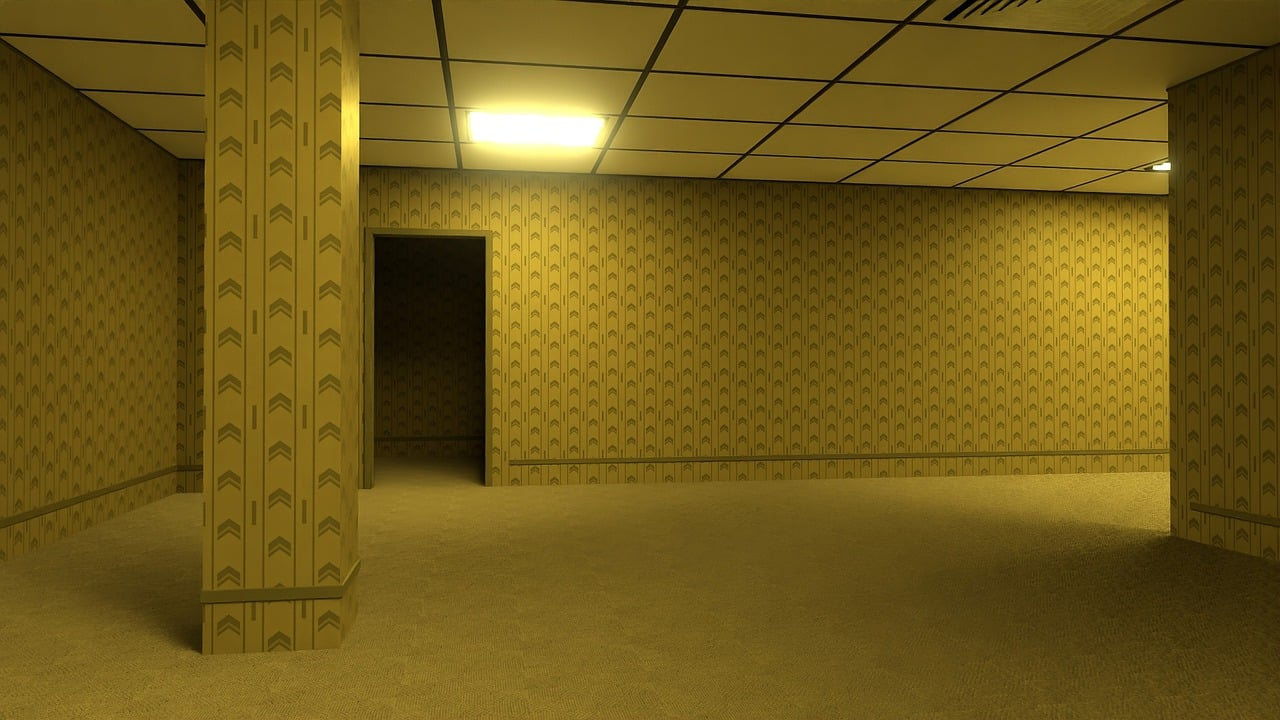
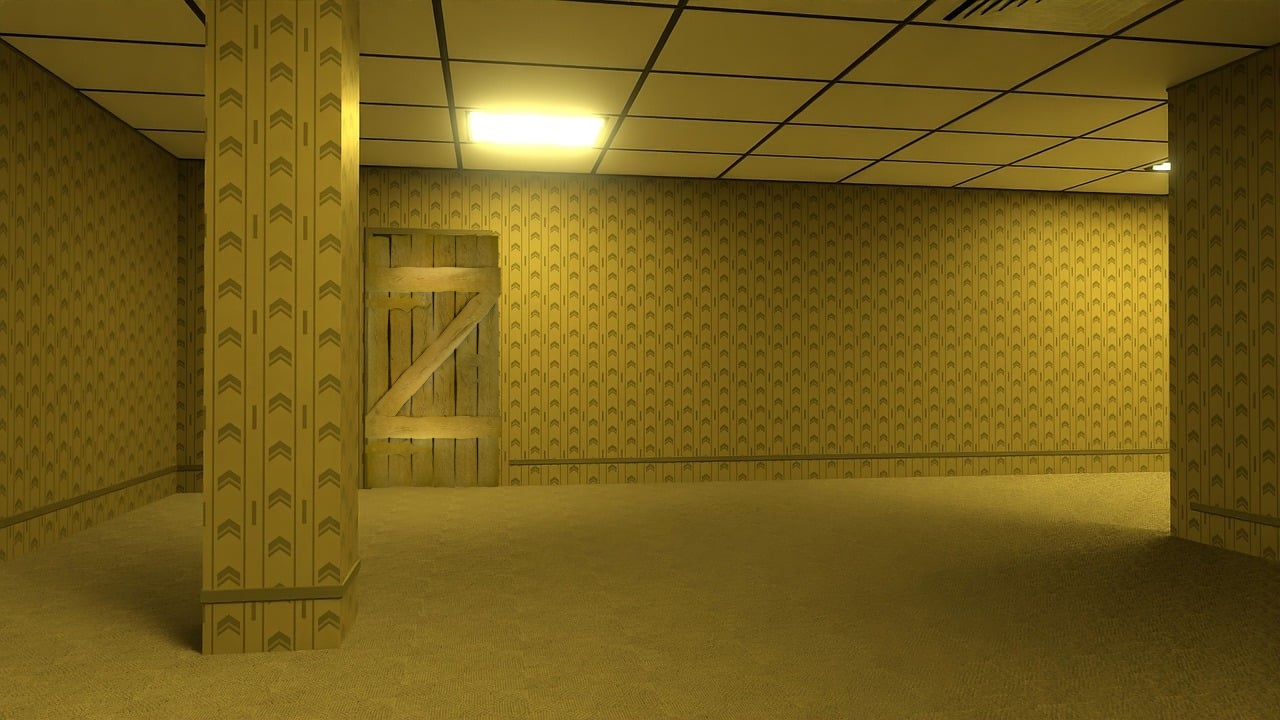
update : item,obstacle,inventory
아이템 : 열쇠
장애물 : 기둥 , 벽
인벤토리 : 인벤토리 활성화 및 아이템 추가 기능 update

Changed region(s): [[0.2812, 0.3056, 0.4062, 0.6722]]

diff --git a/escape.css b/escape.css
@@ -6,30 +6,178 @@
 .container {
   background: url('img/backroom.jpg') no-repeat center right;
   /* 컨버스 사이즈와 동일하게 설정  */
-  margin: auto;
+  margin: 80px auto;
   width: 1280px;
   height: 720px;
   /* border: 1px solid black; */
   /* 부모 박스 : relative  */
   /* 자식 위치는 : absolute */
-  /* z-index: -1000; */
+  z-index: 1000;
+  position: relative;
+  overflow: hidden;
 }
 
-#canvas{
-  overflow: hidden;
+#mainCanvas{
   width: 100%;
-  border: 1px solid black;
+  /* border: 30px solid black; */
   height: 100%;
   /* 부모 박스 기준으로  */
   /* position: absolute;
-  position: relative;
   top: 0;
   left: 0;
-  z-index: 0; */
+  */
+  /* z-index: -1000;  */
 }
-/* .door{} */
+#switch{
+  position: absolute;
+  /* border: 3px solid black; */
+  width: 100px;
+  height: 40px;
+  top: 110px;
+  left: 480px;
+  transition: all 600ms;
+  z-index: 1000;
+}
+#switch:hover{
+  background-color: #ffffff2c;
+  transform: scale(0.7);
+}
+.events,
+.items{
+  opacity: 0.04;
+}
+.events.on,
+.items.on{
+  opacity: 1;
+}
+.rightWall{
+  position: absolute;
+  right: -3px;
+  top: 41px;
+  z-index: 10;
+}
+.pillar{
+  position: absolute;
+  top: -1px;
+  left: 199px;
+  transition: all 600ms;
+  z-index: 10;
+}  
+.pillar:hover{
+transform: scale(1.05);
+}  
+
+.door{
+  transform: scale(40%);
+  position: absolute;
+  top: 50px;
+  left: 255px;
+  transition: all 500ms;
+}  
+.door:hover{
+  transform: scale(0.45);
+}
+
 .box{
   position: absolute;
-  width: 100px;
-  height: 100px;
+  top: 450px;
+  right: 60px;
+  transition: all 500ms;
 }
+.box:hover{
+  transform: translateX(-30px);
+}  
+.bookshelf{
+  transform: scale(80%);
+  position: absolute;
+  top: 180px;
+  right: 200px;
+  transition: all 500ms;
+}
+.bookshelf:hover{
+  transform: scale(0.9);
+}
+
+.firstKey{
+  position: absolute;
+  top: 500px;
+  left: 180px;
+  transition: all 500ms;
+}
+.firstKey:hover{
+  transform: translateX(-30px);
+}
+.inventory{
+  z-index: 200;
+  position: absolute;
+  background: khaki;
+  bottom: 0px;
+  left: calc((100% - 900px) / 2) ;
+  width: 900px;
+  height: 100px;
+  border: 2px solid red;
+  padding: 10px;
+  display: grid;
+  grid-template-columns: 1fr 8fr 1fr;
+}
+.leftbtn,.rightbtn{
+  border: 10px solid orange;
+  height: 100%;
+}
+.leftbtn{}
+.leftbtn>img{
+  width: 100%;
+  height: 100%;
+}
+.rightbtn{}
+.rightbtn>img{
+  width: 100%;
+  height: 100%;
+}
+.itemlist{
+  display: flex;
+}
+.itemlist > .item{
+  width: 150px;
+  height: 80px;
+  border: 10px solid white;
+}
+.itemlist > .item:hover{
+  transform: scale(1.2);
+}
+.itemlist > .item > img{
+  width: 100%;
+  height: 100%;
+}
+.overlay{
+  background-color: #000000e0;
+  width: 100%;
+  height: 100%;
+  position: absolute;
+  z-index: 150;
+}  
+/* 불이 켜진상태 */
+.overlay.on{
+  display: none;
+}  
+
+.msgbox{
+  box-sizing: border-box;
+  position:fixed;
+  top: -100px;
+  left: 50%;
+  width: 300px;
+  height: 100px;
+  background-color: rgba(17, 17, 7, 0.8);
+  border-radius: 20px;
+  transform: translate(-50%,-50%);
+  transition: all 500ms;
+  text-align: center;
+  line-height: 100px;
+  color: white;
+  font-size: large;
+}
+.msgbox.on{
+  top: 150px;
+}
+

diff --git a/escape.js b/escape.js
@@ -1,0 +1,71 @@
+import Inventory from './inventory.js';
+
+class Escape{
+constructor(){
+  this.canvas = document.querySelector("#mainCanvas");
+  this.ctx = this.canvas.getContext("2d");
+  this.overlay = document.querySelector(".overlay");
+  this.$Lightswitch = document.querySelector("#switch");
+  this.$events = document.querySelector(".events");
+  this.$items = document.querySelector(".items");
+  this.$msgBox = document.querySelector(".msgbox")
+  this.Inventory=new Inventory();
+  this.light = false;
+  this.darkInterval = null;
+  this.msgTimeOut=null;
+  this.x = 0;
+  this.y = 0;
+
+  this.$items.addEventListener("click",e=>{
+    this.Inventory.getItem(e.target);
+    const name = e.target.getAttribute("data-name")
+    this.showMsg(`${name}을 획득했습니다.`)
+  })
+
+  this.Inventory.inventory.addEventListener("click",e=>{
+    console.log(e.target);
+    console.log();
+  })
+
+  document.addEventListener("mousemove",e=>{
+    if(this.light)return;
+    this.ctx.beginPath();
+    this.ctx.rect(0,0,this.canvas.width,this.canvas.height);
+    this.ctx.fillStyle="#000000bf";
+    this.ctx.fill();
+    this.ctx.closePath();
+    const x = (e.clientX) - 50 - ((document.documentElement.clientWidth - 1280) / 2);
+    const y = (e.clientY) - 50 - 130;
+    this.ctx.clearRect(x,y,100,100);
+  });
+  
+  this.$Lightswitch.addEventListener("click",()=>{
+    if(this.light){
+      this.overlay.classList.remove("on")
+      this.$items.classList.remove("on")
+      this.$events.classList.remove("on")
+      this.light = !this.light
+    }else{
+      this.overlay.classList.add("on")
+      this.$items.classList.add("on")
+      this.$events.classList.add("on")
+      this.ctx.clearRect(0,0,this.canvas.width,this.canvas.height);
+      this.light = !this.light
+    };
+  });
+
+  }
+  showMsg(msg){
+    clearTimeout(this.msgTimeOut);
+    this.$msgBox.textContent=msg;
+    this.$msgBox.classList.add("on");
+    this.msgTimeOut = setTimeout(()=>{
+      this.$msgBox.classList.remove("on");
+    },2000)
+  }
+
+}
+
+let game = new Escape();
+
+

diff --git a/index.html b/index.html
@@ -5,15 +5,35 @@
   <meta name="viewport" content="width=device-width, initial-scale=1.0">
   <title>방탈출</title>
   <link rel="stylesheet" href="escape.css">
-  <!-- <script src="LastDoor.js" defer></script> -->
   <script type="module" src="escape.js"></script>
 </head>
 <body>
   <div class="container">
-    <canvas id="canvas" width="1200" height="600">
-      <div class="door"></div>
+    <div class="overlay"></div>
+    <div id="switch"></div>
+    <div class="events">
+      <div class="rightWall"><img src="img/wall-right.png" alt=""></div>
+      <div class="pillar"><img src="img/기둥.png" alt=""></div>
+      <div class="door"><img src="img/wooden-gate-2361812_640.png" alt=""></div>
       <div class="box"><img src="img/icons8-보물-상자-66.png" alt=""></div>
-    </canvas>
+      <div class="bookshelf"><img src="img/jesus-7280992_640.png" alt=""></div>
+    </div>
+    <div class="items">
+      <div class="item firstKey"><img data-name="firstKey" src="img/icons8-키-64.png" alt=""></div>
+    </div>
+    <div class="inventory">
+      <div class="leftbtn"><img src="img/icons8-뒤로-16.png" alt=""></div>
+      <div class="itemlist">
+        <div class="item"></div>
+        <div class="item"></div>
+        <div class="item"></div>
+        <div class="item"></div>
+        <div class="item"></div>
+      </div>
+      <div class="rightbtn"><img src="img/icons8-앞으로-16.png" alt=""></div>
+    </div>
+    <canvas id="mainCanvas" width="1200" height="600"></canvas>
+    <div class="msgbox"></div>
   </div>
 </body>
 </html>

diff --git a/inventory.js b/inventory.js
@@ -1,0 +1,17 @@
+export default class Inventory{
+  constructor(){
+    this.inventory = document.querySelector(".inventory");
+    this.itemList = document.querySelector(".itemlist")
+
+  }
+
+  getItem(item){
+    const itemArr = [...this.itemList.children];
+    const slot = itemArr.find(e=>e.innerHTML=='');
+    slot.appendChild(item);
+  };
+
+  useItem(item){
+    
+  }
+}
